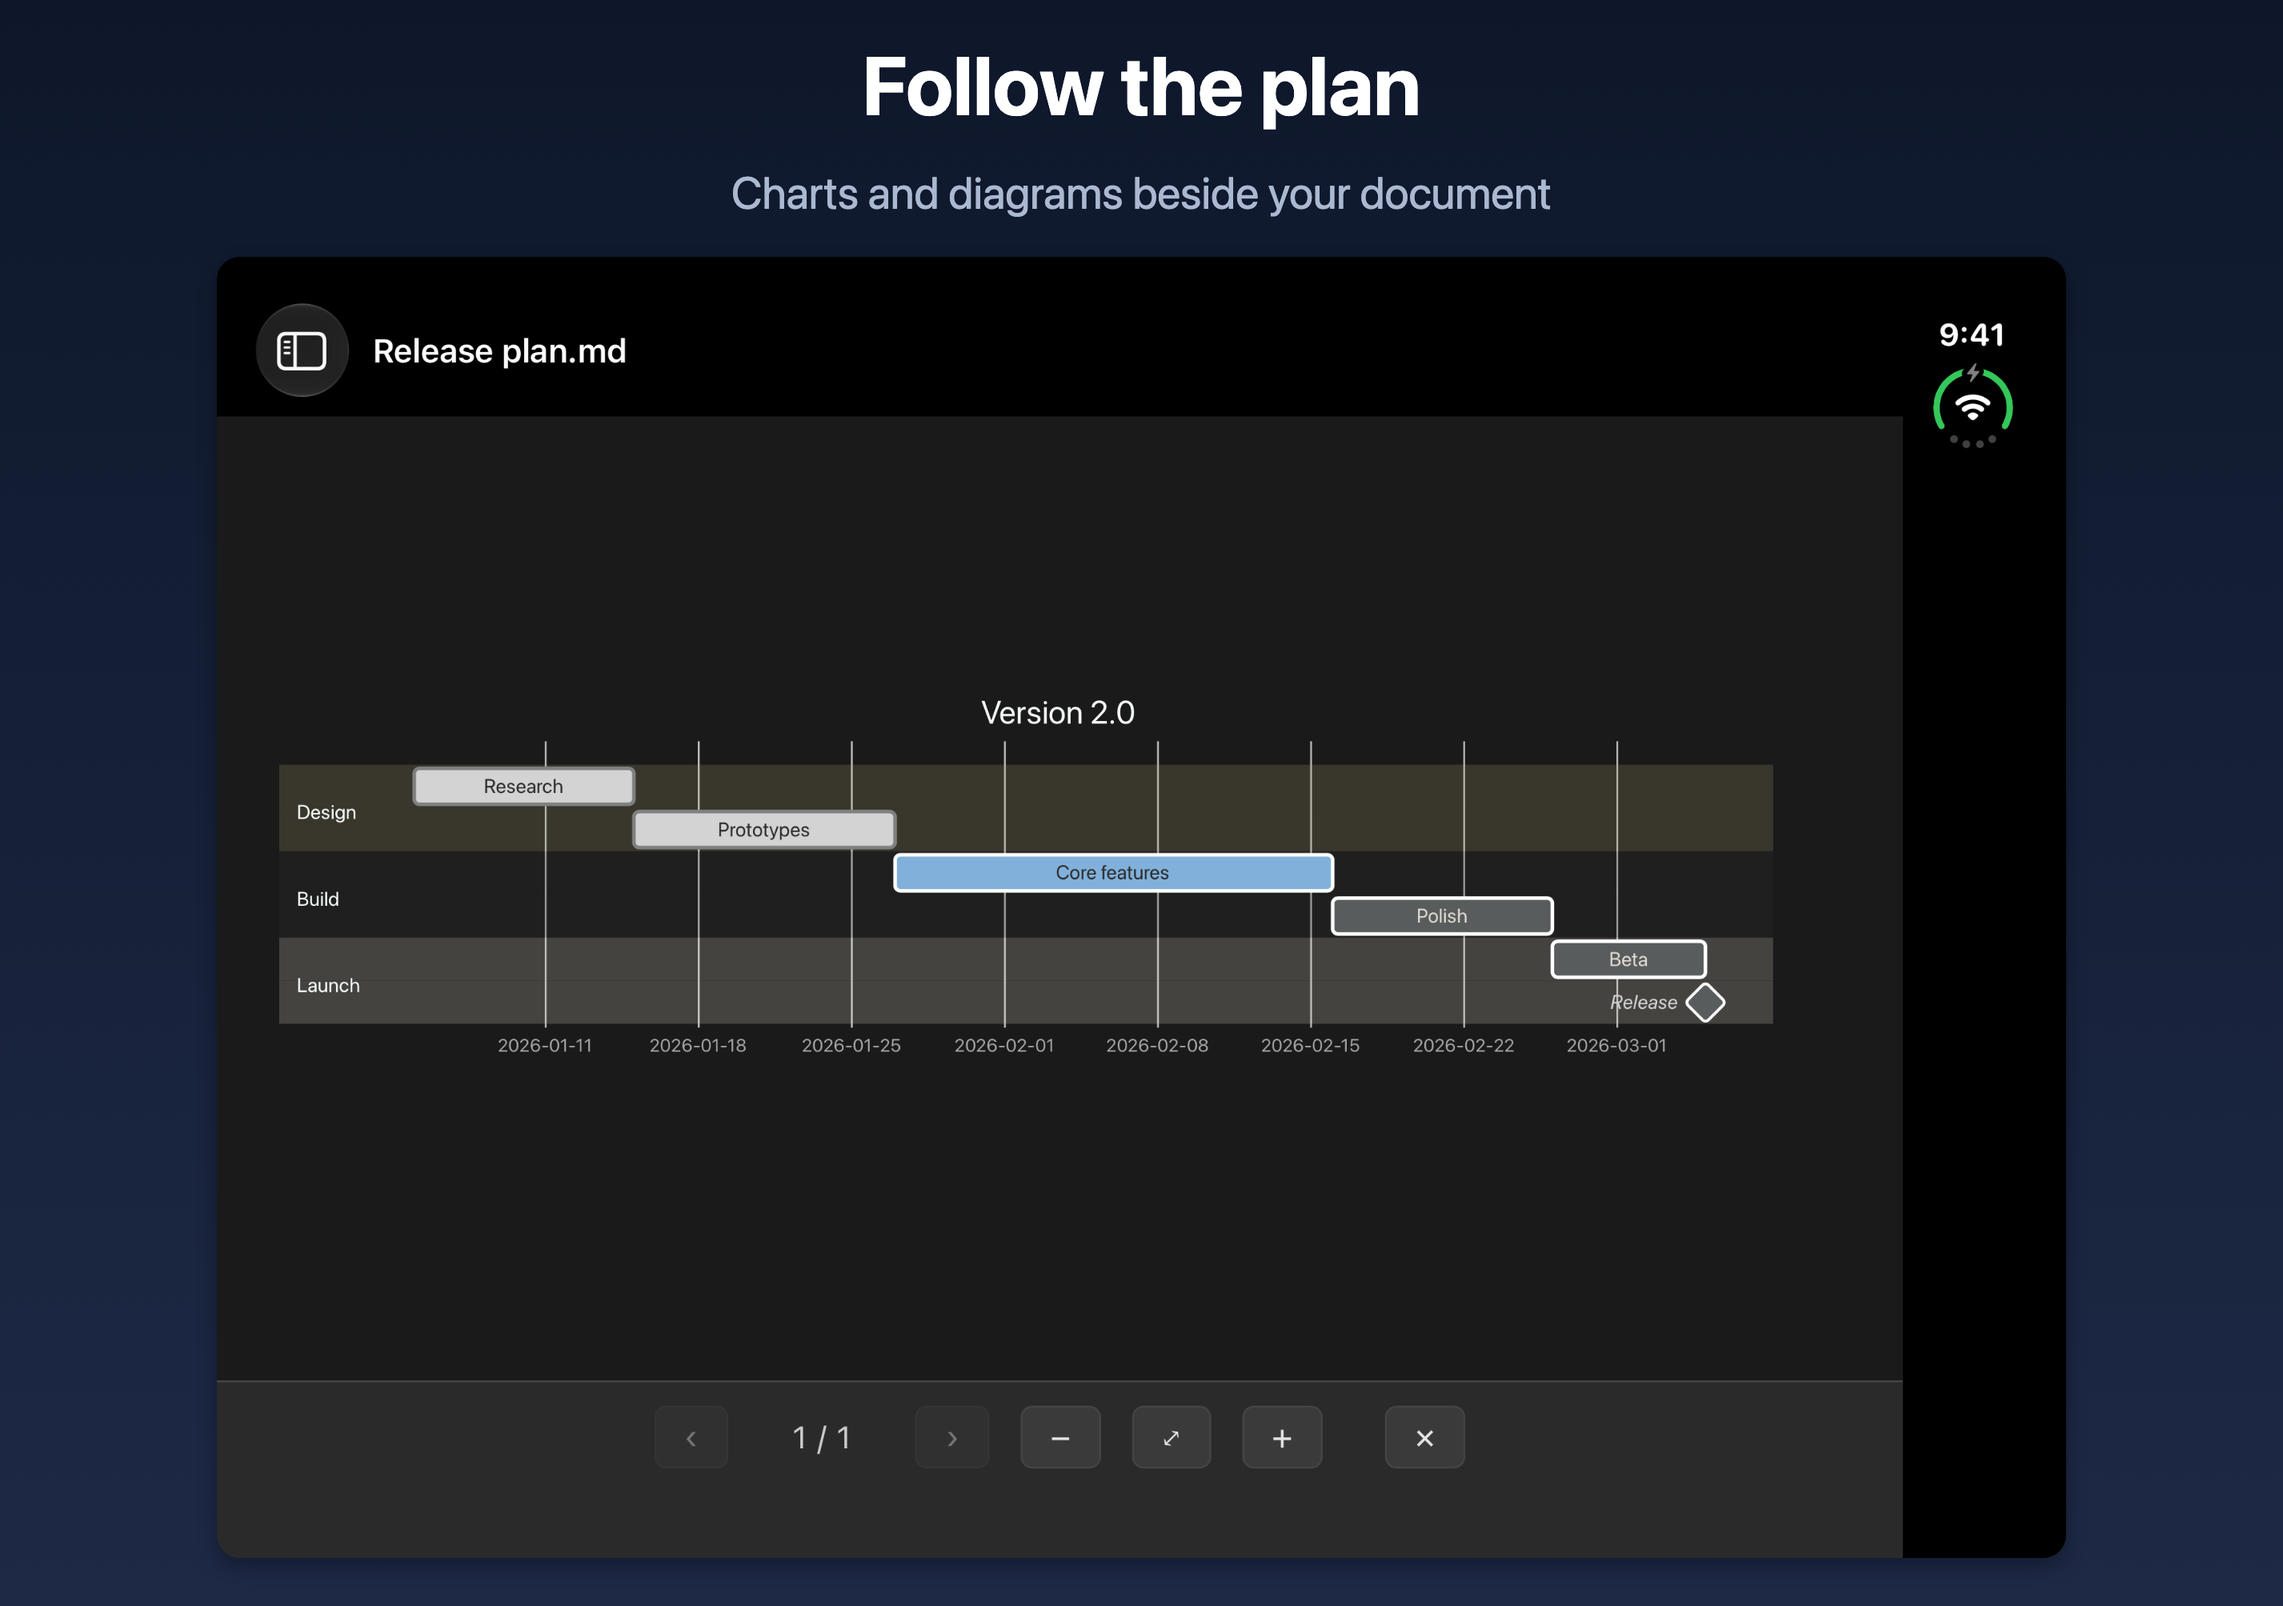
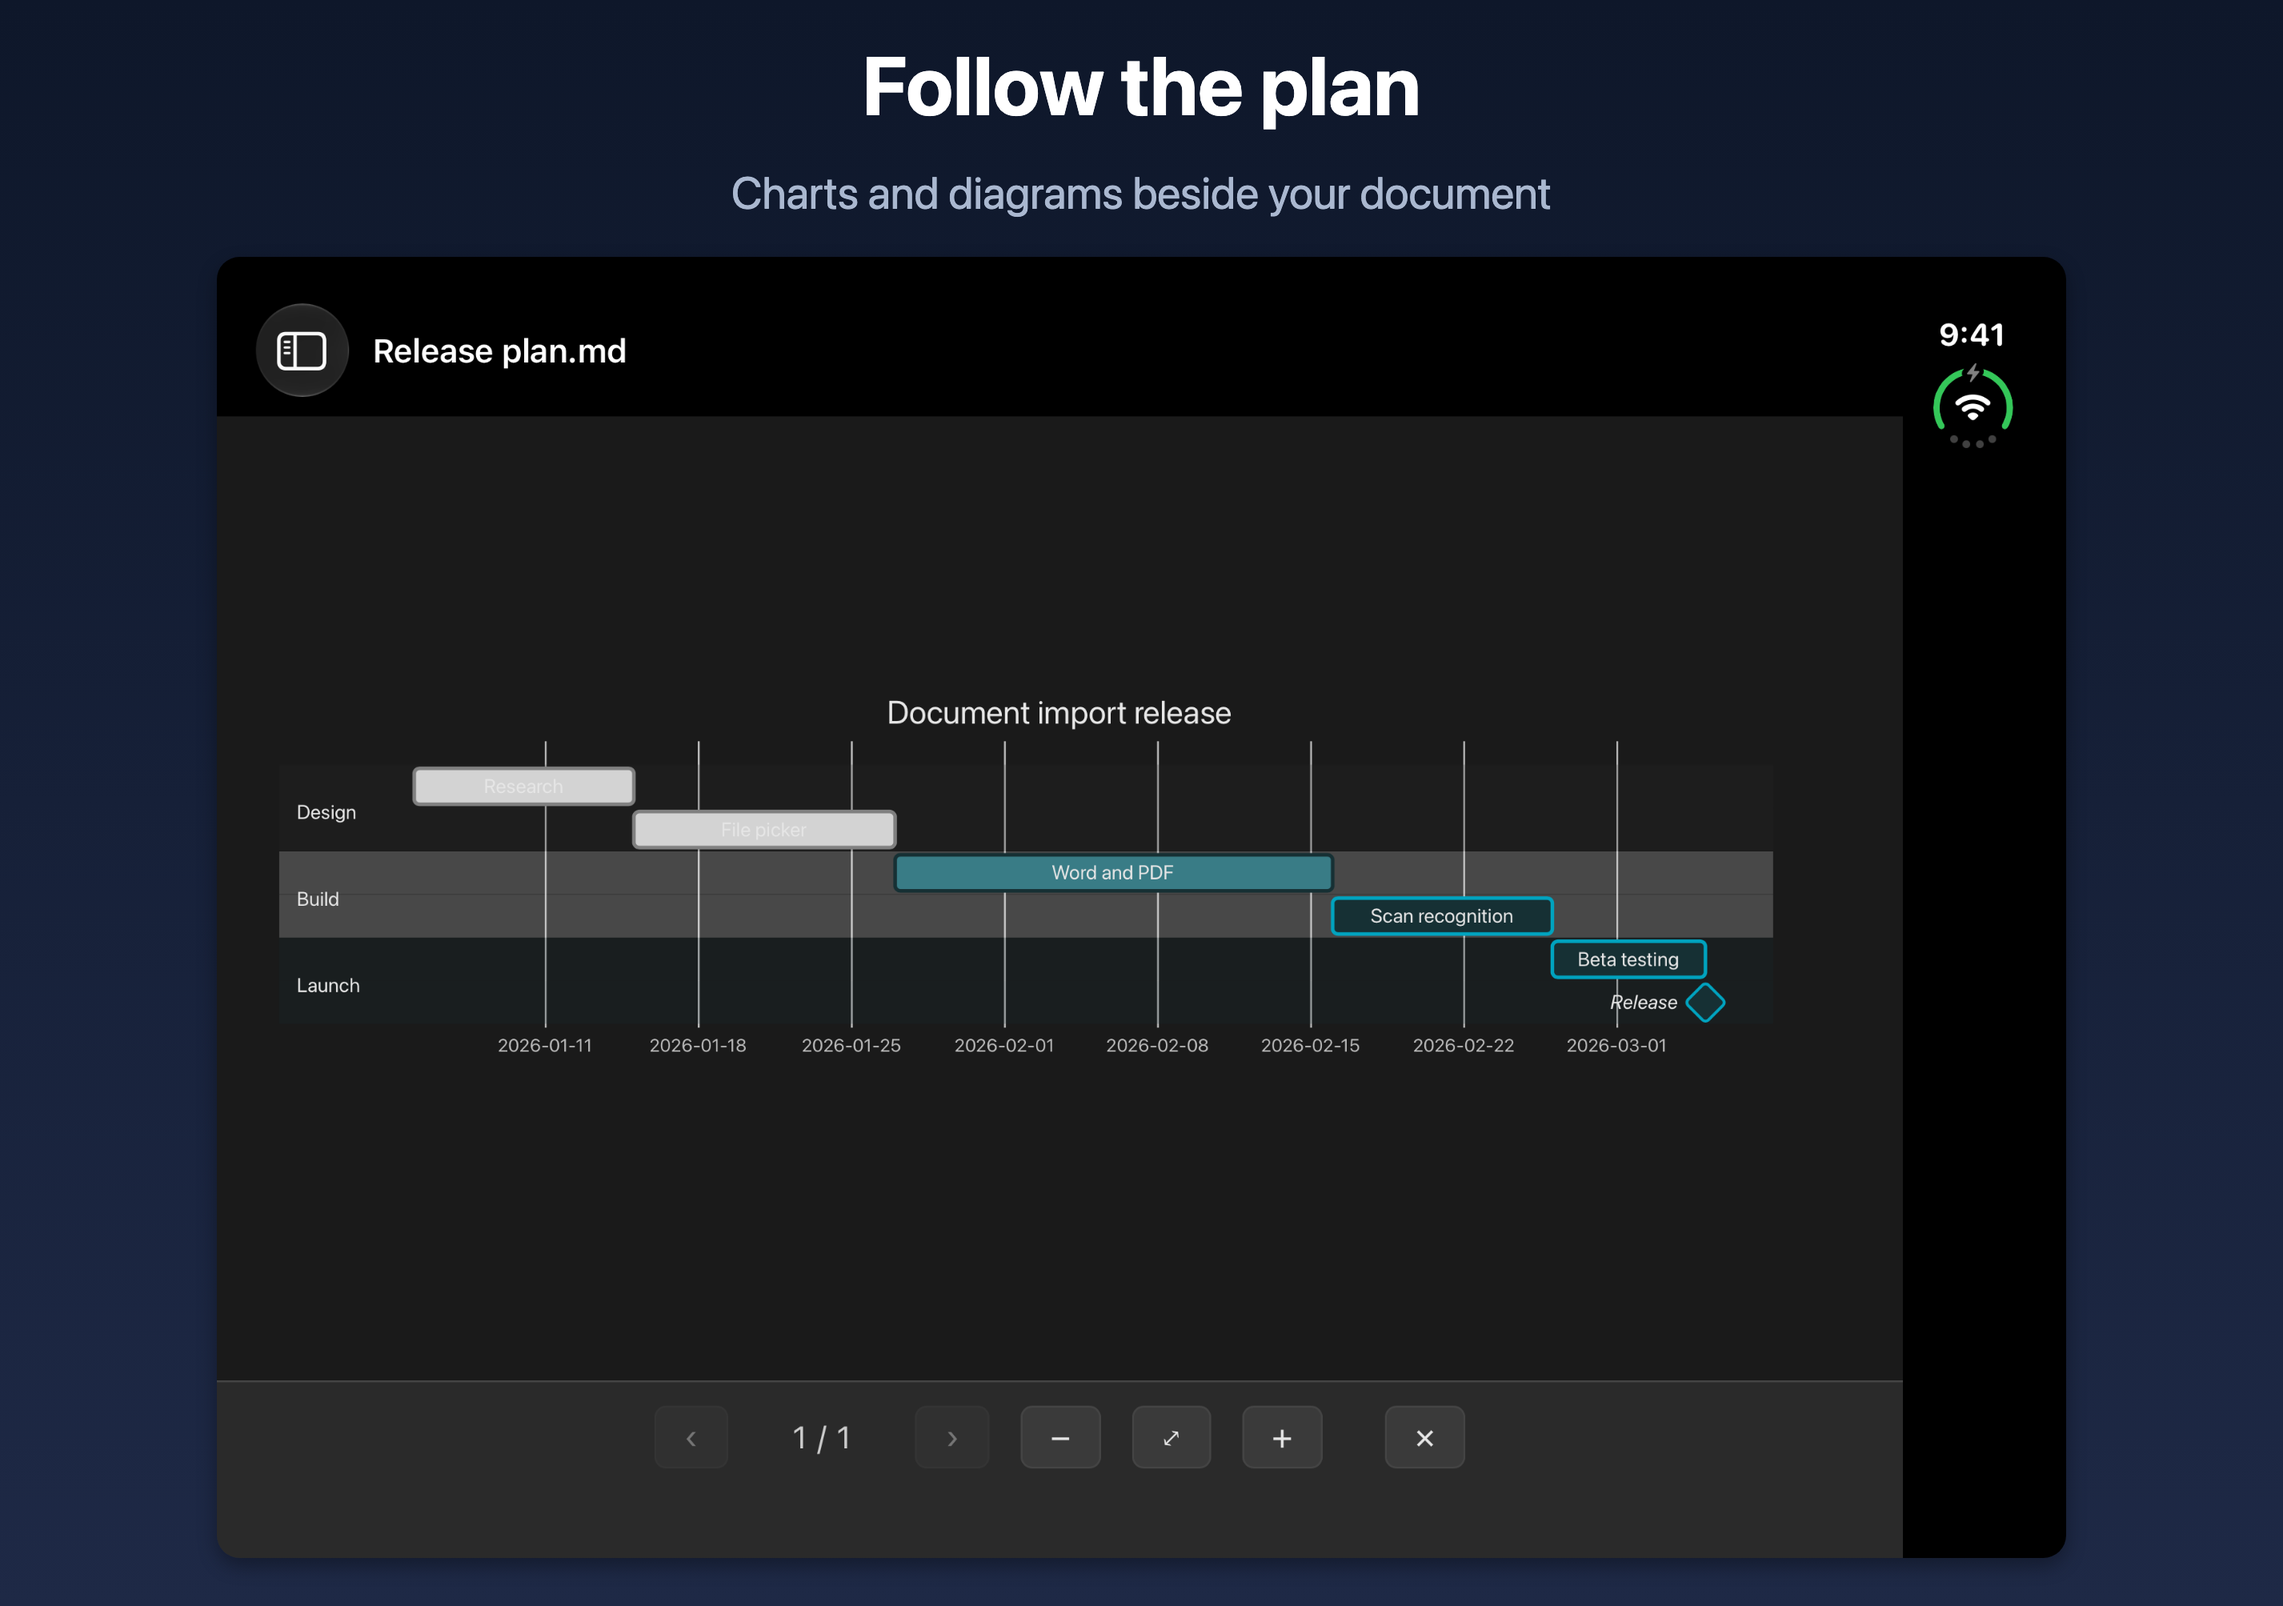
Recapture branded import diagrams for the 1.0.5 Store galleries

Changed region(s): [[0.1248, 0.4325, 0.7799, 0.6487]]

diff --git a/app-store/release-assets/1.0.5-257/README.md b/app-store/release-assets/1.0.5-257/README.md
@@ -15,22 +15,26 @@ Provide the [Word guide](review-files/Stargazing%20guide.docx) and [scanned PDF]
 
 [Open the screenshot gallery](gallery.html). Select an image to inspect it at its exported resolution.
 
-Each device has eight new captures from the 1.0.5 candidate. The frames, typography, navy gradient, headline placement and subtitle styling come from the approved 1.0.3 artwork. The original dark Starfield opening, diagram presentation, mindmap with a table, release timeline and light-mode ending retain their places. Word import, Markdown editing and PDF recognition occupy positions 03, 04 and 07.
+Each device has eight new captures from the 1.0.5 candidate. The frames, typography, navy gradient, headline placement and subtitle styling come from the approved 1.0.3 artwork. The dark Starfield opening, diagram presentation, mindmap with a table, release timeline and light-mode ending retain their places. The presentation now shows how Word and PDF imports lead to an editable Markdown copy. The timeline follows the same release. Word import, Markdown editing and PDF recognition occupy positions 03, 04 and 07.
 
 | Position | Screen |
 | --- | --- |
 | 01 | Starfield home in dark mode |
-| 02 | Sign-in sequence in diagram presentation |
+| 02 | Word and PDF import flowchart in diagram presentation |
 | 03 | A Word guide opened as Markdown |
 | 04 | An edited heading and the Save as Markdown control |
 | 05 | A feature mindmap with its reference table |
-| 06 | A release timeline in presentation mode |
+| 06 | Document import release timeline in presentation mode |
 | 07 | Text recovered from the scanned observing log |
 | 08 | API reference in light mode |
 
 [Mac](screenshots/mac/) · [iPhone](screenshots/iphone/) · [iPad](screenshots/ipad/) · [iPhone Duo](screenshots/duo/)
 
 Mac images show the production Store renderer in a local development-signed sandboxed app, at 1440 × 900 points and 2× scale. Mobile images show the production interface on simulators. A temporary simulator-only driver opened the demo documents, performed the edit and waited for each capture. The signed distribution apps contain the regular interface. The iPad gallery uses the native collapsed-sidebar view.
+
+### Recapture the diagrams
+
+Use the [document import flowchart](diagram-samples/Document%20import.md) for slide 02 and the [release plan](diagram-samples/Release%20plan.md) for slide 06. Open each file in the Store candidate in dark mode and enter Presentation. The `%% specdown:brand` line inside each Mermaid block selects the app’s diagram palette. Check the teal shapes and connectors in the flowchart and the teal active task in the timeline before composing the artwork.
 
 ### Rebuild the artwork
 

diff --git a/app-store/release-assets/1.0.5-257/diagram-samples/Release plan.md b/app-store/release-assets/1.0.5-257/diagram-samples/Release plan.md
@@ -1,0 +1,25 @@
+# Release Plan
+
+Plan the work, then share it — Gantt charts render right in your notes.
+
+```mermaid
+gantt
+%% specdown:brand
+    title Document import release
+    dateFormat YYYY-MM-DD
+    section Design
+    Research        :done,    d1, 2026-01-05, 10d
+    File picker     :done,    d2, after d1, 12d
+    section Build
+    Word and PDF    :active,  b1, after d2, 20d
+    Scan recognition:         b2, after b1, 10d
+    section Launch
+    Beta testing    :         l1, after b2, 7d
+    Release         :milestone, l2, after l1, 0d
+```
+
+## Milestones
+
+1. **Design complete** — prototypes signed off
+2. **Feature freeze** — only fixes after this point
+3. **Release** — ship it

diff --git a/app-store/release-assets/1.0.5-257/diagram-samples/Document import.md b/app-store/release-assets/1.0.5-257/diagram-samples/Document import.md
@@ -1,0 +1,18 @@
+# Document import
+
+```mermaid
+flowchart TD
+%% specdown:brand
+    A[Open File] --> B{Document type}
+    B -->|Word| C[Read text]
+    B -->|PDF| D[Read or scan]
+    C --> E[Edit Markdown]
+    D --> E
+    E --> F[Save a copy]
+```
+
+```mermaid
+flowchart LR
+%% specdown:brand
+    Open --> Edit --> Save
+```
